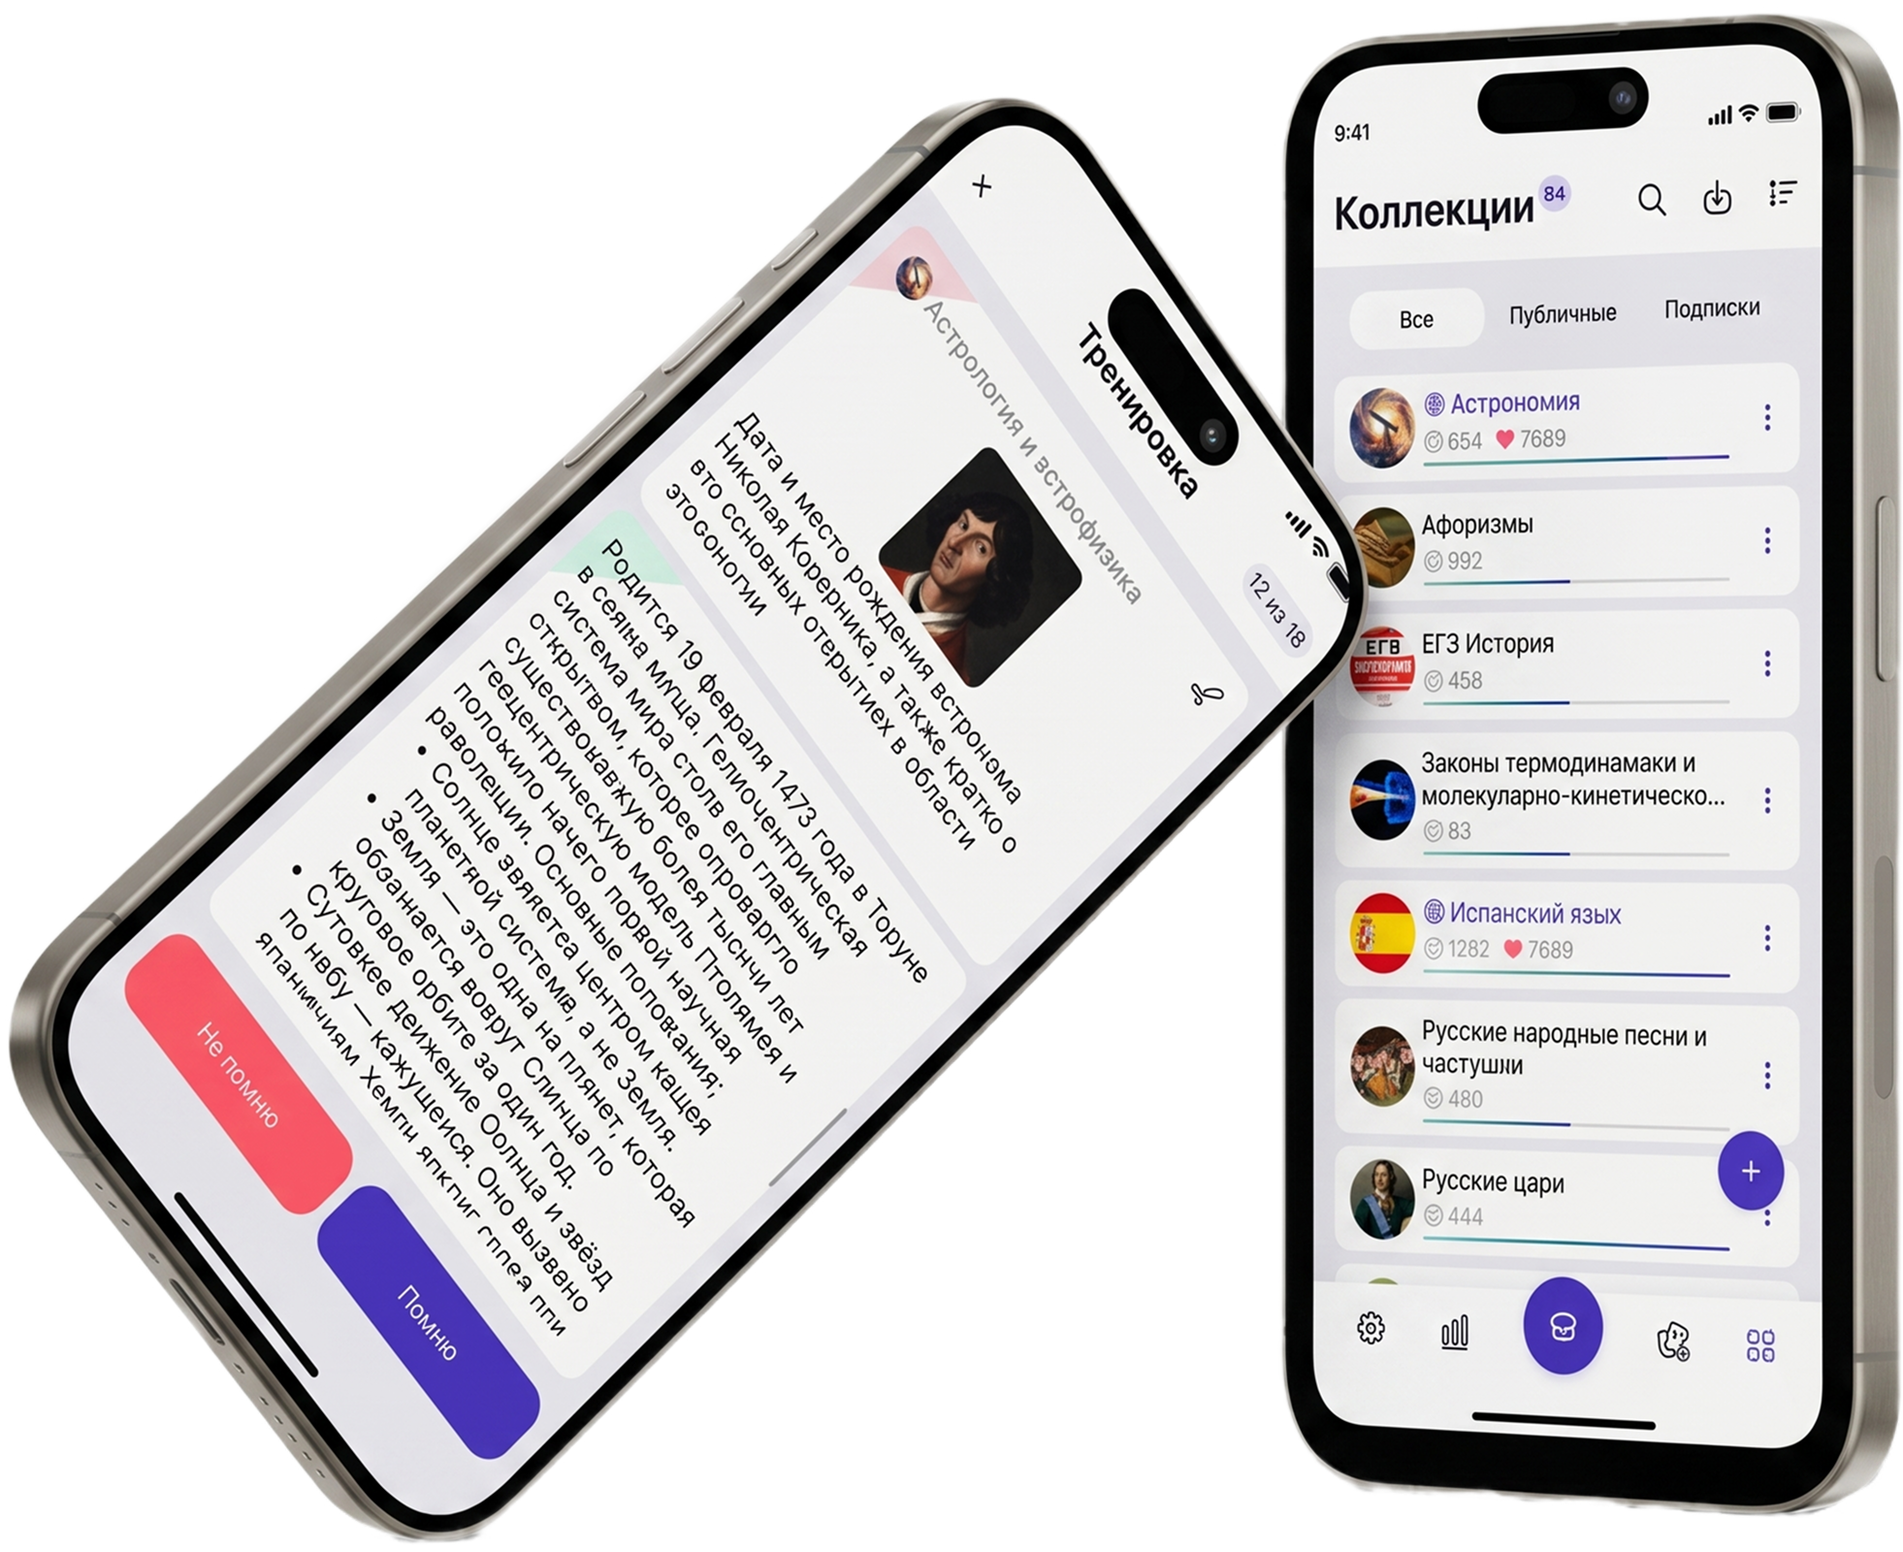
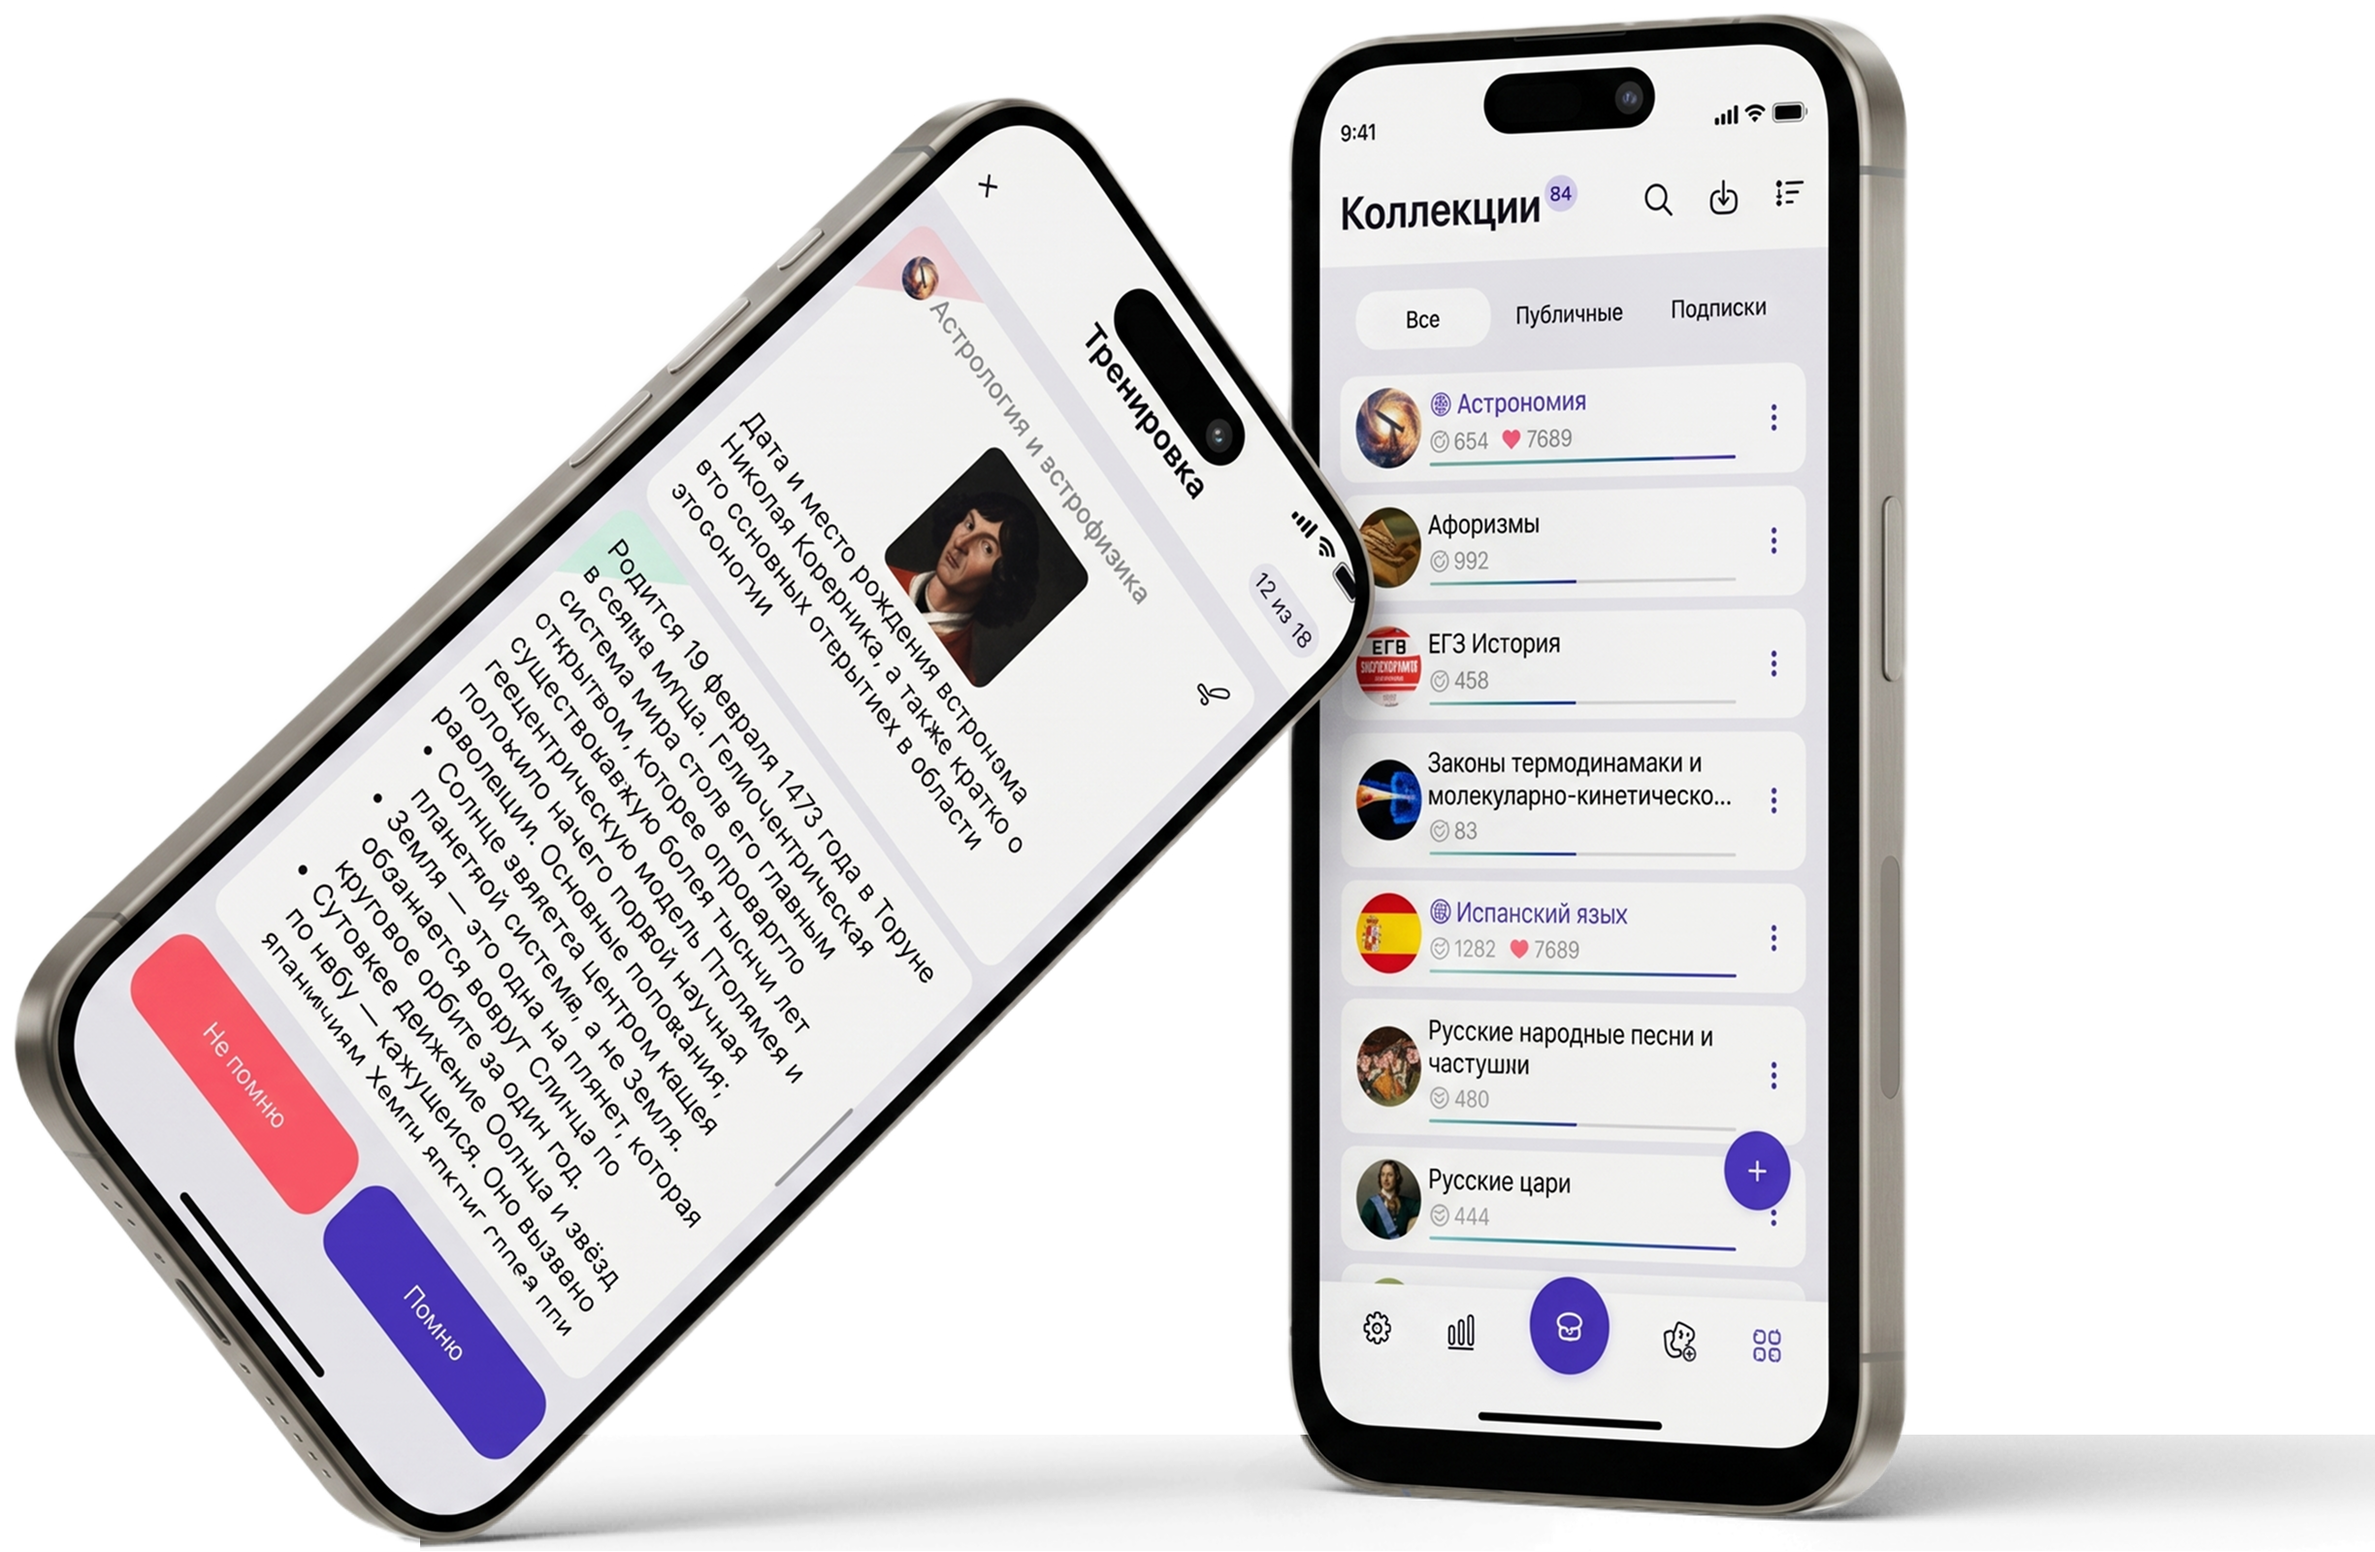
Answer Ai refactoring

diff --git a/app.py b/app.py
@@ -1,17 +1,31 @@
 from flask import Flask, render_template
+import os
 # Инициализация приложения Flask
 # # Flask автоматически ищет шаблоны в папке /templates и статику в /static
 
 app = Flask(__name__)
 
+# Настройка безопасности
+app.config['SECRET_KEY'] = os.environ.get('SECRET_KEY', 'dev-key-change-in-production')
+app.config['DEBUG'] = os.environ.get('FLASK_DEBUG', 'False').lower() == 'true'
 
 @app.route('/')
 def index():
     # Рендерим главную страницу лендинга
     return render_template('index.html')
 
+# Добавляем безопасные заголовки
+@app.after_request
+def after_request(response):
+    response.headers["X-Content-Type-Options"] = "nosniff"
+    response.headers["X-Frame-Options"] = "SAMEORIGIN"
+    response.headers["X-XSS-Protection"] = "1; mode=block"
+    return response
 
 if __name__ == '__main__':
-    # Запуск сервера в режиме отладки
-    # host='0.0.0.0' позволяет обращаться к серверу по IP-адресу в локальной сети
-    app.run(debug=True, host='0.0.0.0', port=5001)
+    # Запуск сервера с безопасными настройками
+    debug_mode = os.environ.get('FLASK_DEBUG', 'False').lower() == 'true'
+    host = os.environ.get('FLASK_HOST', '127.0.0.1')
+    port = int(os.environ.get('FLASK_PORT', 5001))
+    
+    app.run(debug=debug_mode, host=host, port=port)

diff --git a/test_app.py b/test_app.py
@@ -1,0 +1,28 @@
+import unittest
+from app import app
+
+
+class FlaskTestCase(unittest.TestCase):
+    def setUp(self):
+        """Set up test client"""
+        self.app = app.test_client()
+        self.app.testing = True
+
+    def test_home_page_status_code(self):
+        """Test that home page returns status code 200"""
+        response = self.app.get('/')
+        self.assertEqual(response.status_code, 200)
+
+    def test_home_page_content_type(self):
+        """Test that home page returns HTML content"""
+        response = self.app.get('/')
+        self.assertIn('text/html', response.content_type)
+
+    def test_home_page_contains_title(self):
+        """Test that home page contains expected content"""
+        response = self.app.get('/')
+        self.assertIn(b'Remever', response.data)
+
+
+if __name__ == '__main__':
+    unittest.main()
